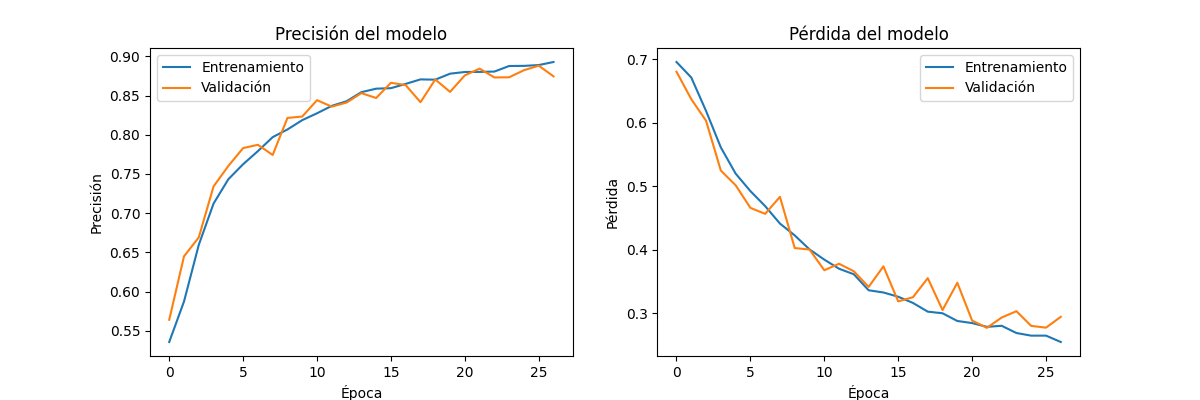
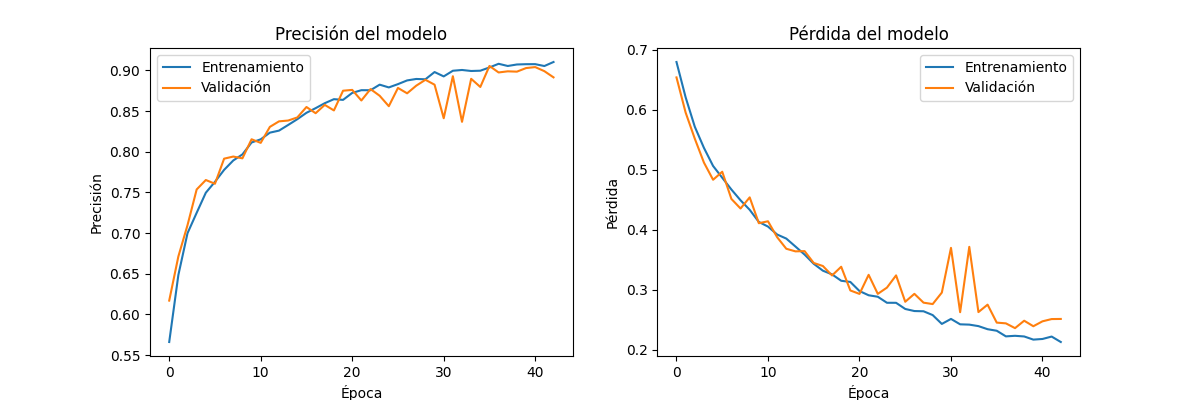
Ajustes en el entrenamiento

diff --git a/predecir.py b/predecir.py
@@ -1,0 +1,52 @@
+import os
+import numpy as np
+from tensorflow.keras.models import load_model
+from tensorflow.keras.preprocessing.image import load_img, img_to_array
+
+# === Parámetros ===
+directorio_pruebas = os.path.join(os.path.dirname(__file__), "pruebas")
+modelo_path = "modelo_gatos_perros.keras"
+altura, ancho = 150, 150
+
+# === Verificar existencia del modelo ===
+if not os.path.exists(modelo_path):
+    print(f"❌ Modelo no encontrado: {modelo_path}")
+    exit(1)
+
+# === Cargar el modelo ===
+modelo = load_model(modelo_path)
+print(f"✅ Modelo cargado: {modelo_path}")
+
+# === Buscar imágenes en el directorio de pruebas ===
+imagenes = sorted([
+    f for f in os.listdir(directorio_pruebas)
+    if f.lower().endswith(".jpg")
+])
+
+if not imagenes:
+    print(f"❌ No se encontraron imágenes .jpg en {directorio_pruebas}")
+    exit(1)
+
+# === Predecir y mostrar resultados ===
+resultados = []
+
+for nombre_img in imagenes:
+    ruta = os.path.join(directorio_pruebas, nombre_img)
+
+    try:
+        imagen = load_img(ruta, target_size=(altura, ancho))
+        imagen = img_to_array(imagen)
+        imagen = imagen / 255.0  # Normalizar
+        imagen = np.expand_dims(imagen, axis=0)
+
+        prediccion = modelo.predict(imagen, verbose=0)[0][0]
+        etiqueta = "Perro 🐶" if prediccion > 0.5 else "Gato 🐱"
+
+        resultados.append((nombre_img, etiqueta))
+    except Exception as e:
+        resultados.append((nombre_img, f"Error: {str(e)}"))
+
+# === Mostrar resumen ===
+print("\n📋 Resultados de predicción:\n")
+for archivo, pred in resultados:
+    print(f"{archivo} → {pred}")

diff --git a/cliente/cliente.py b/cliente/cliente.py
@@ -1,0 +1,51 @@
+import cv2
+import numpy as np
+import tensorflow as tf
+
+# Cargar modelo entrenado
+modelo = tf.keras.models.load_model('modelo_gatos_perros.keras')
+print("✅ Modelo cargado")
+
+# Tamaño esperado por el modelo
+altura, ancho = 150, 150
+
+# Abrir la cámara (0 = cámara principal)
+camara = cv2.VideoCapture(0)
+
+if not camara.isOpened():
+    print("❌ No se pudo abrir la cámara.")
+    exit()
+
+print("🎥 Cámara abierta. Presiona 'q' para salir.")
+
+while True:
+    ret, frame = camara.read()
+    if not ret:
+        print("❌ Error al capturar frame.")
+        break
+
+    # Mostrar el frame original
+    cv2.imshow("Entrada", frame)
+
+    # Preprocesar la imagen
+    imagen = cv2.resize(frame, (ancho, altura))
+    imagen = imagen.astype('float32') / 255.0
+    imagen = np.expand_dims(imagen, axis=0)
+
+    # Hacer predicción
+    prediccion = modelo.predict(imagen, verbose=0)[0][0]
+    etiqueta = "🐶 Perro" if prediccion >= 0.5 else "🐱 Gato"
+    confianza = f"{prediccion:.2f}" if prediccion >= 0.5 else f"{1 - prediccion:.2f}"
+
+    # Mostrar resultado en pantalla
+    resultado = f"{etiqueta} ({confianza})"
+    cv2.putText(frame, resultado, (10, 30), cv2.FONT_HERSHEY_SIMPLEX, 1, (0, 255, 0), 2)
+    cv2.imshow("Clasificacion", frame)
+
+    # Salir al presionar 'q'
+    if cv2.waitKey(1) & 0xFF == ord('q'):
+        break
+
+# Liberar recursos
+camara.release()
+cv2.destroyAllWindows()

diff --git a/entrenar_modelo_nuevo.py b/entrenar_modelo_nuevo.py
@@ -74,7 +74,8 @@ def main():
         target_size=(altura, ancho),
         batch_size=batch_size,
         class_mode='binary',
-        subset='training'
+        subset='training',
+        classes=['cat', 'dog']
     )
 
     validation_generator = datagen.flow_from_directory(
@@ -82,7 +83,8 @@ def main():
         target_size=(altura, ancho),
         batch_size=batch_size,
         class_mode='binary',
-        subset='validation'
+        subset='validation',
+        classes=['cat', 'dog']
     )
 
     print("Creando modelo...")
